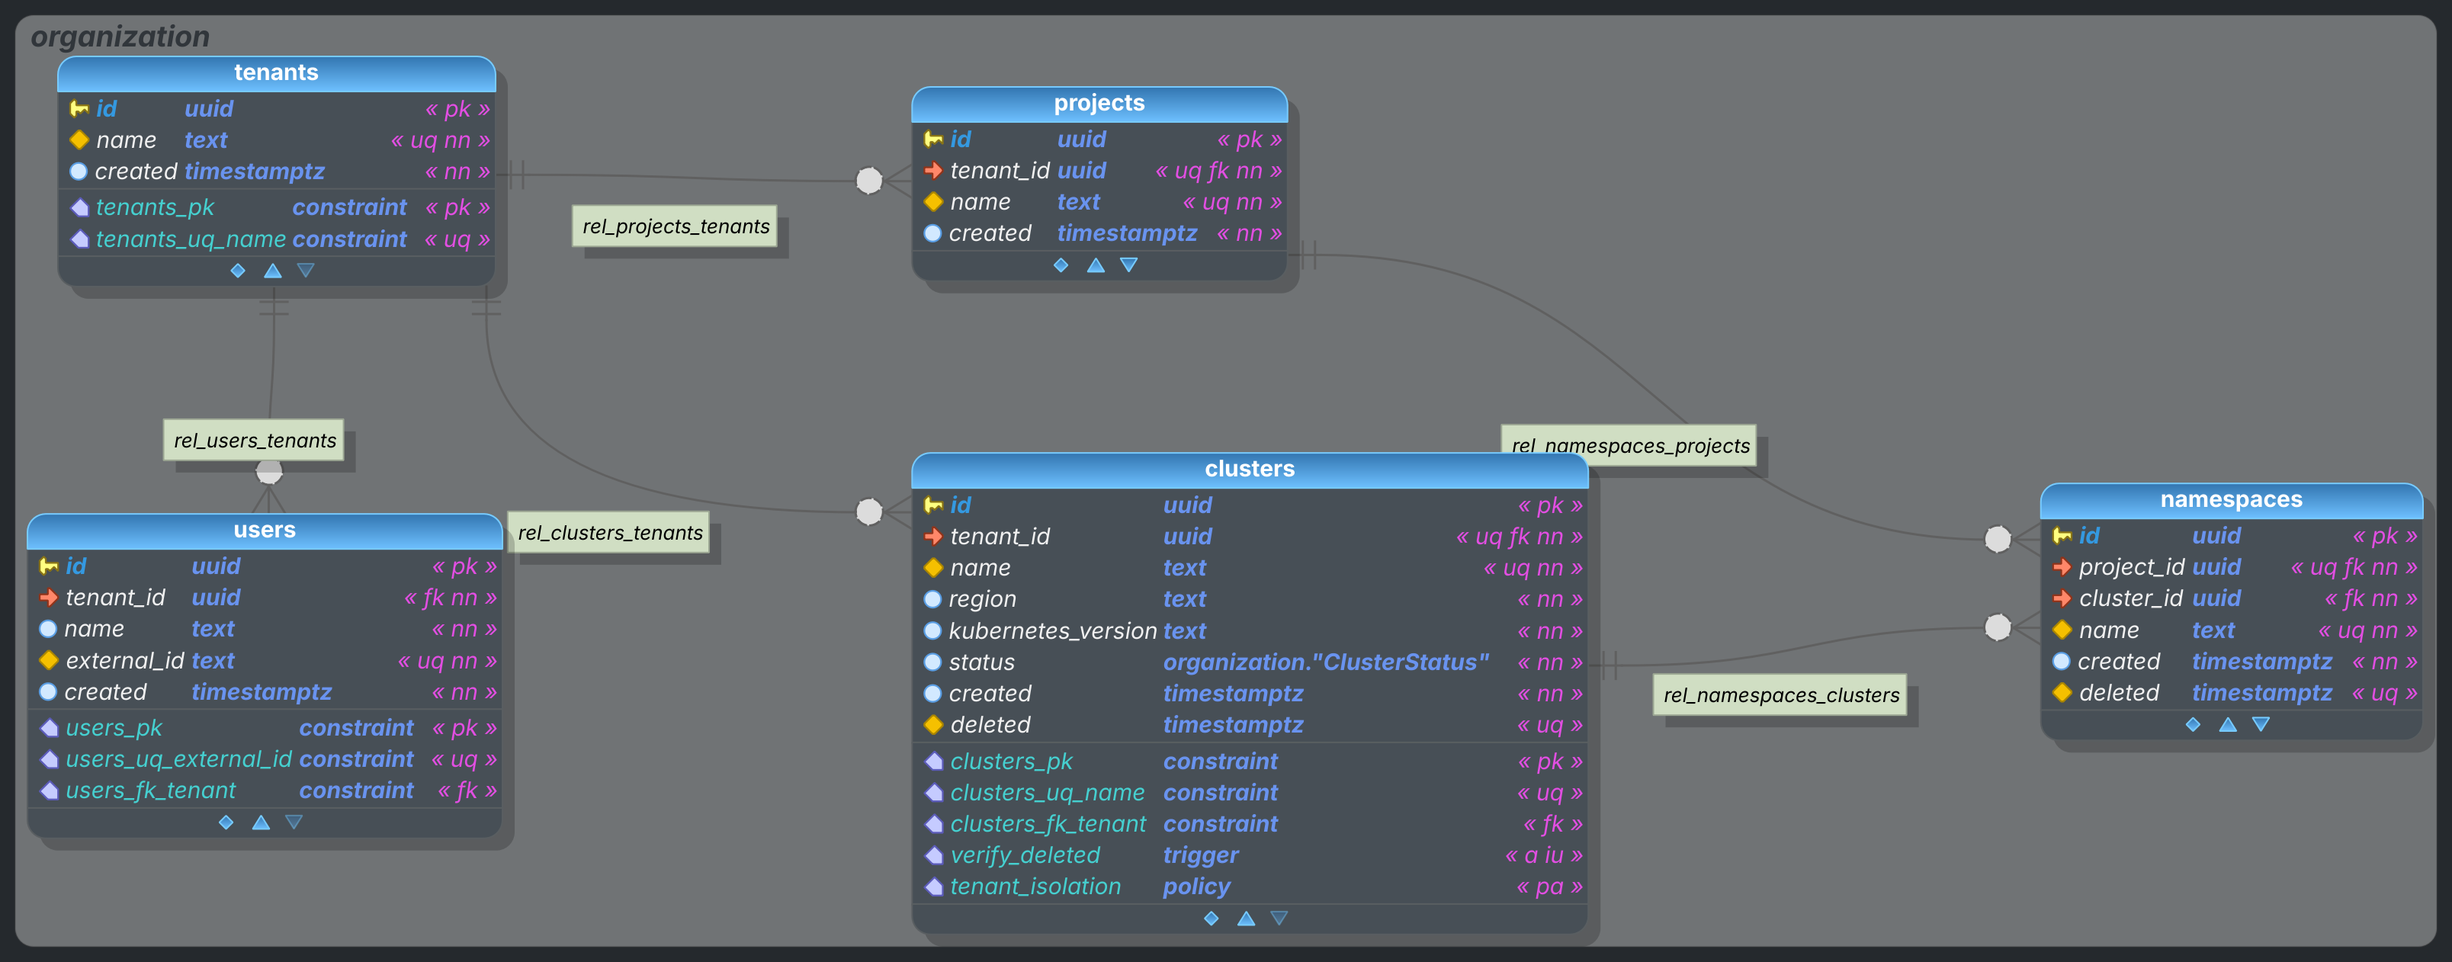
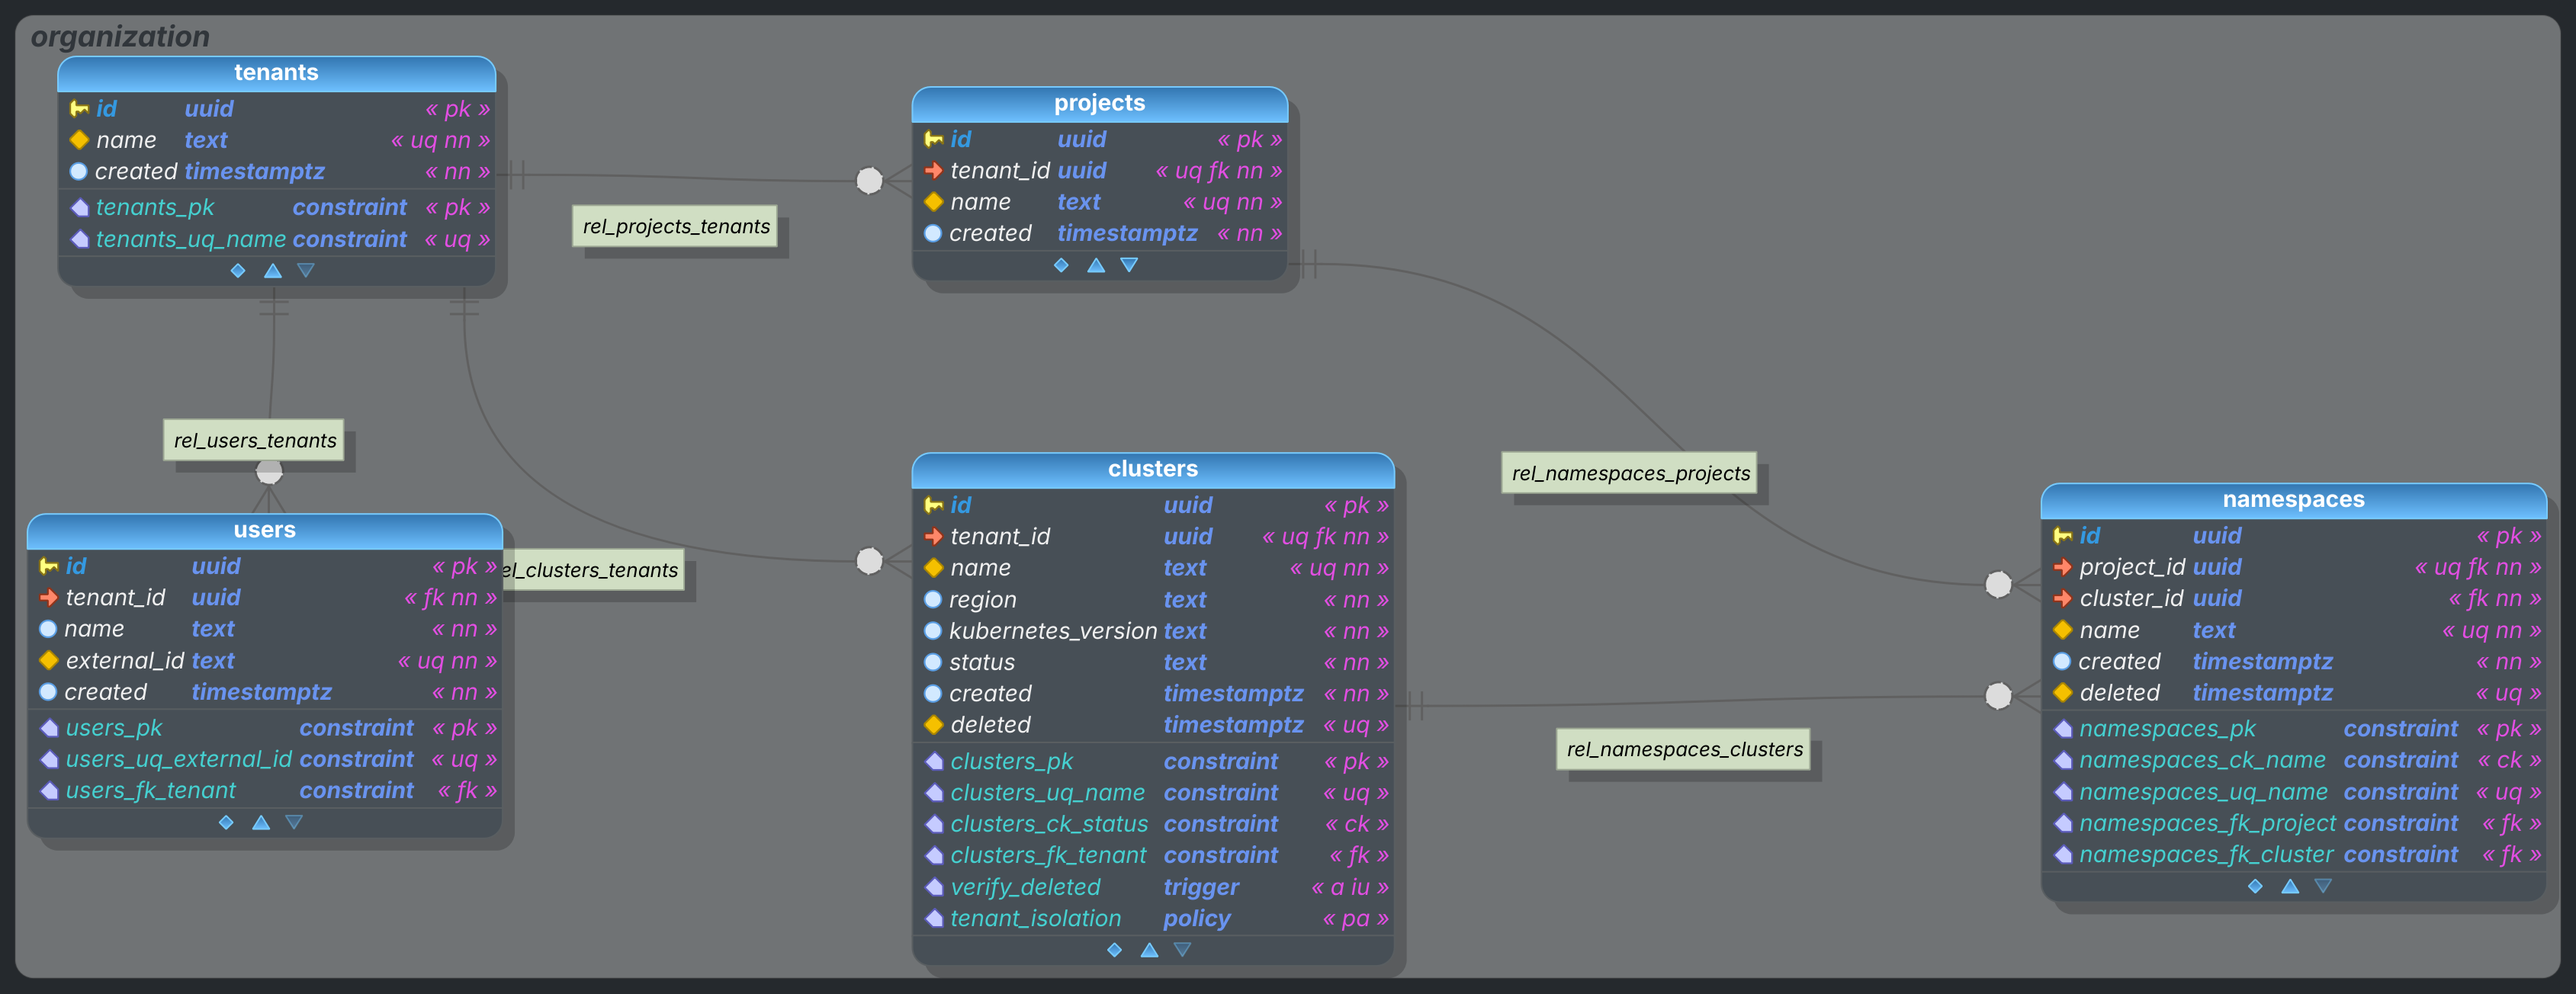
move enum to text with check

Changed region(s): [[0.0, 0.4017, 0.995, 0.9889], [0.0, 0.0309, 0.5286, 0.309]]

diff --git a/organization-api/pkg/db/gen/models.go b/organization-api/pkg/db/gen/models.go
@@ -5,60 +5,9 @@
 package db
 
 import (
-	"database/sql/driver"
-	"fmt"
-
 	"github.com/google/uuid"
 	"github.com/jackc/pgx/v5/pgtype"
 )
-
-type OrganizationClusterStatus string
-
-const (
-	OrganizationClusterStatusUnspecified  OrganizationClusterStatus = "unspecified"
-	OrganizationClusterStatusProvisioning OrganizationClusterStatus = "provisioning"
-	OrganizationClusterStatusStarting     OrganizationClusterStatus = "starting"
-	OrganizationClusterStatusRunning      OrganizationClusterStatus = "running"
-	OrganizationClusterStatusUpgrading    OrganizationClusterStatus = "upgrading"
-	OrganizationClusterStatusError        OrganizationClusterStatus = "error"
-	OrganizationClusterStatusStopping     OrganizationClusterStatus = "stopping"
-	OrganizationClusterStatusStopped      OrganizationClusterStatus = "stopped"
-)
-
-func (e *OrganizationClusterStatus) Scan(src interface{}) error {
-	switch s := src.(type) {
-	case []byte:
-		*e = OrganizationClusterStatus(s)
-	case string:
-		*e = OrganizationClusterStatus(s)
-	default:
-		return fmt.Errorf("unsupported scan type for OrganizationClusterStatus: %T", src)
-	}
-	return nil
-}
-
-type NullOrganizationClusterStatus struct {
-	OrganizationClusterStatus OrganizationClusterStatus
-	Valid                     bool // Valid is true if OrganizationClusterStatus is not NULL
-}
-
-// Scan implements the Scanner interface.
-func (ns *NullOrganizationClusterStatus) Scan(value interface{}) error {
-	if value == nil {
-		ns.OrganizationClusterStatus, ns.Valid = "", false
-		return nil
-	}
-	ns.Valid = true
-	return ns.OrganizationClusterStatus.Scan(value)
-}
-
-// Value implements the driver Valuer interface.
-func (ns NullOrganizationClusterStatus) Value() (driver.Value, error) {
-	if !ns.Valid {
-		return nil, nil
-	}
-	return string(ns.OrganizationClusterStatus), nil
-}
 
 type OrganizationCluster struct {
 	ID                uuid.UUID
@@ -66,7 +15,7 @@ type OrganizationCluster struct {
 	Name              string
 	Region            string
 	KubernetesVersion string
-	Status            OrganizationClusterStatus
+	Status            string
 	Created           pgtype.Timestamptz
 	Deleted           pgtype.Timestamptz
 }

diff --git a/organization-api/pkg/organization/adapter/cluster.go b/organization-api/pkg/organization/adapter/cluster.go
@@ -67,21 +67,21 @@ func FromClusterDetail(c db.OrganizationCluster) *organizationv1.ClusterDetails 
 	}
 }
 
-func FromClusterStatus(status db.OrganizationClusterStatus) organizationv1.ClusterStatus {
+func FromClusterStatus(status string) organizationv1.ClusterStatus {
 	switch status {
-	case db.OrganizationClusterStatusProvisioning:
+	case "provisioning":
 		return organizationv1.ClusterStatus_CLUSTER_STATUS_PROVISIONING
-	case db.OrganizationClusterStatusStarting:
+	case "starting":
 		return organizationv1.ClusterStatus_CLUSTER_STATUS_STARTING
-	case db.OrganizationClusterStatusRunning:
+	case "running":
 		return organizationv1.ClusterStatus_CLUSTER_STATUS_RUNNING
-	case db.OrganizationClusterStatusUpgrading:
+	case "upgrading":
 		return organizationv1.ClusterStatus_CLUSTER_STATUS_UPGRADING
-	case db.OrganizationClusterStatusError:
+	case "error":
 		return organizationv1.ClusterStatus_CLUSTER_STATUS_ERROR
-	case db.OrganizationClusterStatusStopping:
+	case "stopping":
 		return organizationv1.ClusterStatus_CLUSTER_STATUS_STOPPING
-	case db.OrganizationClusterStatusStopped:
+	case "stopped":
 		return organizationv1.ClusterStatus_CLUSTER_STATUS_STOPPED
 	default:
 		return organizationv1.ClusterStatus_CLUSTER_STATUS_UNSPECIFIED

diff --git a/organization-api/pkg/organization/cluster.go b/organization-api/pkg/organization/cluster.go
@@ -101,7 +101,7 @@ func (s *OrganizationServer) CreateCluster(
 			Name:              req.Msg.Name,
 			Region:            req.Msg.Region,
 			KubernetesVersion: req.Msg.KubernetesVersion,
-			Status:            db.OrganizationClusterStatusUnspecified,
+			Status:            "unspecified",
 		}
 
 		cluster, err = q.ClusterCreate(ctx, params)

diff --git a/organization-api/pkg/db/gen/cluster.sql.go b/organization-api/pkg/db/gen/cluster.sql.go
@@ -24,7 +24,7 @@ type ClusterCreateParams struct {
 	Name              string
 	Region            string
 	KubernetesVersion string
-	Status            OrganizationClusterStatus
+	Status            string
 }
 
 func (q *Queries) ClusterCreate(ctx context.Context, arg ClusterCreateParams) (OrganizationCluster, error) {
